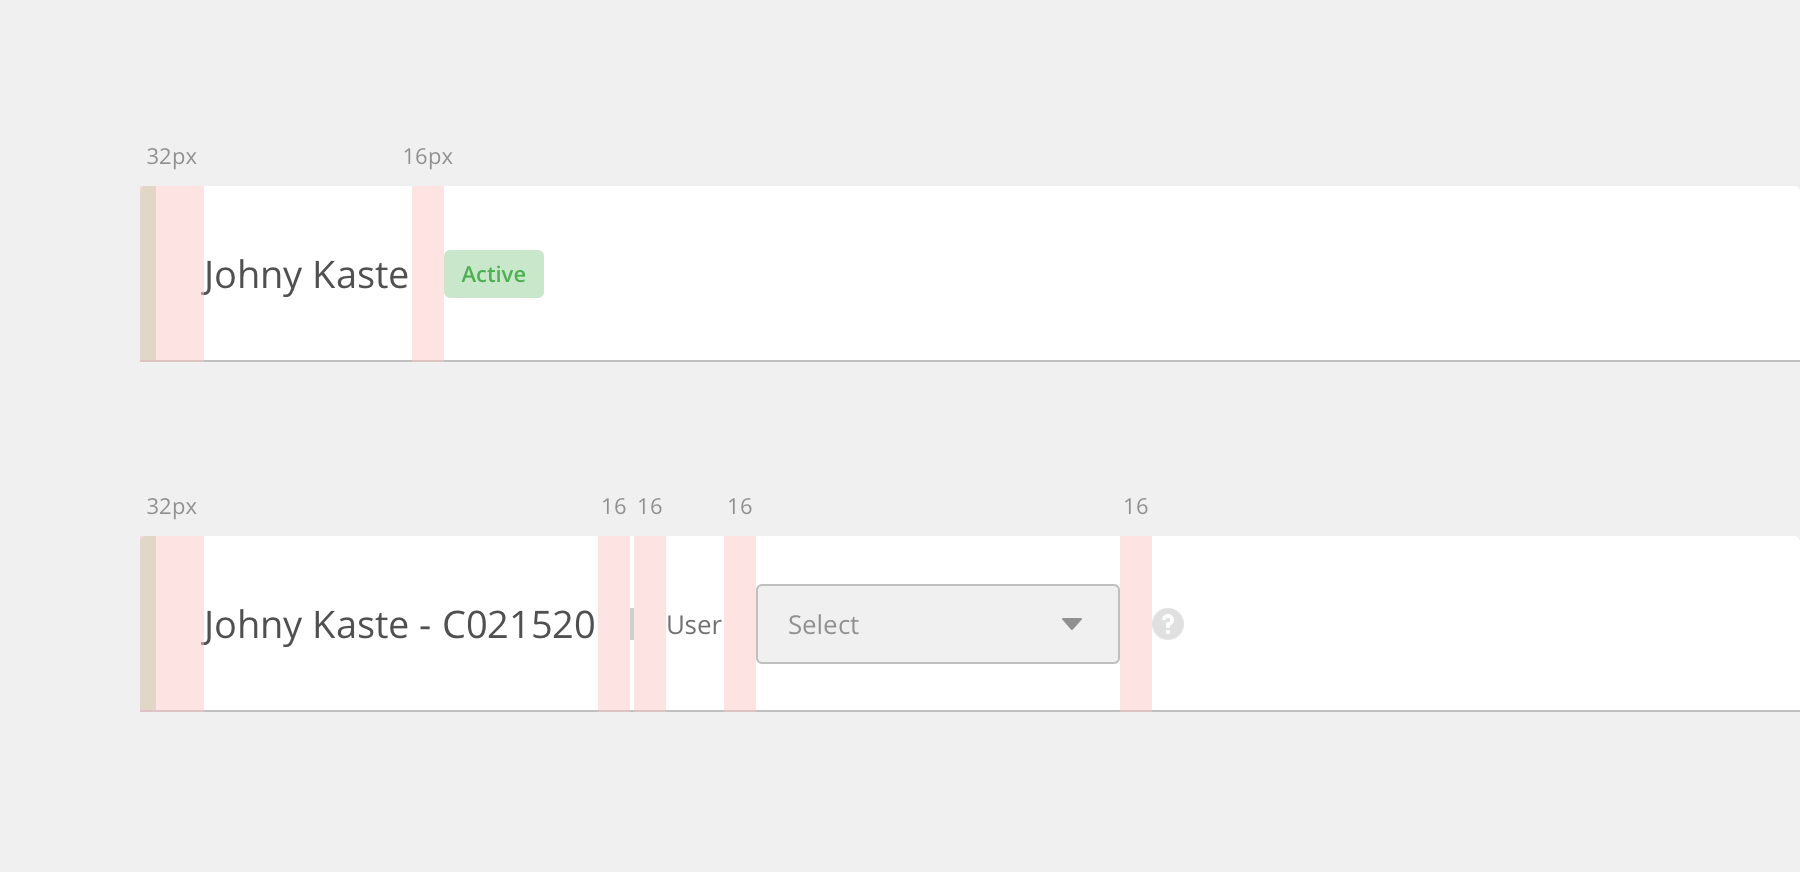
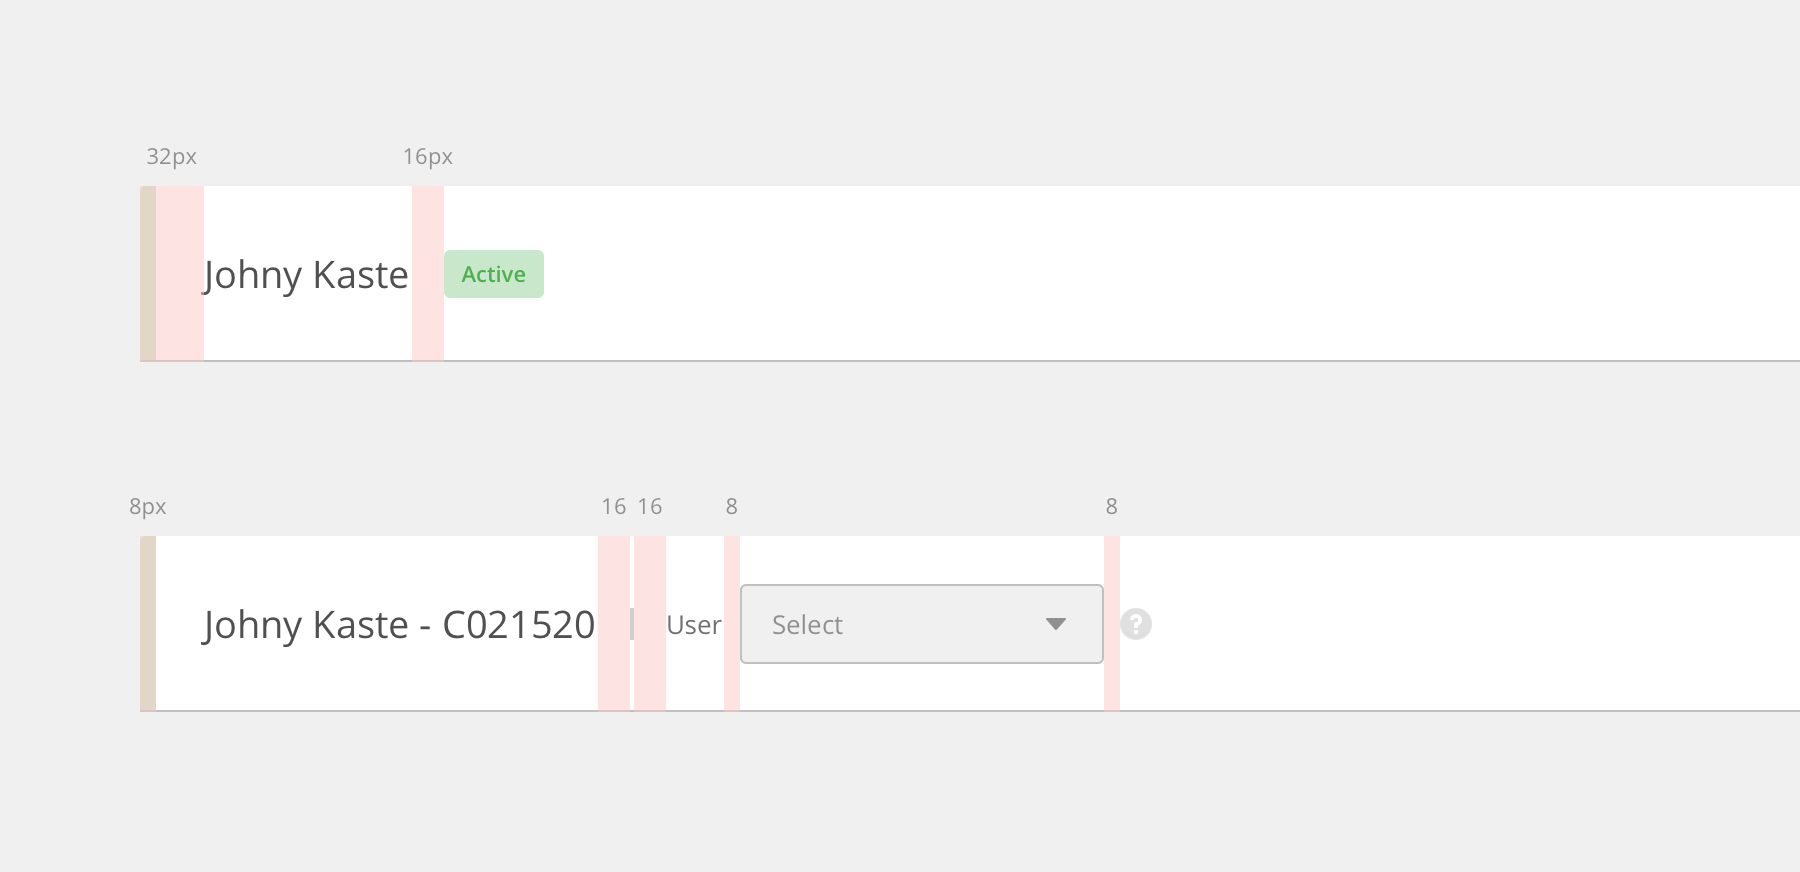
Updates headers.md
Auto commit by GitBook Editor

diff --git a/headers.md b/headers.md
@@ -26,12 +26,23 @@ Header \#1 is the main content header of the Back Office application and it indi
 
 * There is a left padding of 32px.
 * The padding between elements is always 16px.
+* The padding between elements in a group is always 8px.
+* Group elements are always divided by the separator.
 
 ![](/assets/organisms/headers-header-1-spacing-left.png)
 
-#### Atoms
+#### Left side elements
 
 * Use 'M' size for [Dropdowns.](/atoms/dropdowns.md)
 
 ![](/assets/organisms/headers-header-1-atoms-left.png)
+
+#### Right side
+
+* There is a right padding of 32px.
+* The padding between elements is always 16px.
+* The padding between elements in a group is always 8px.
+* Group elements are always divided by the separator.
+
+![](/assets/organisms/headers-header-1-spacing-right.png)
 
